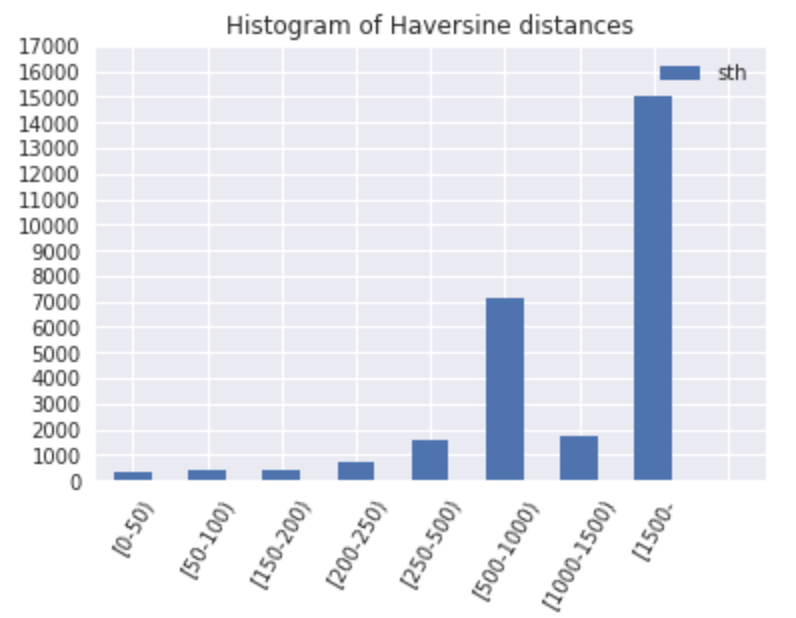
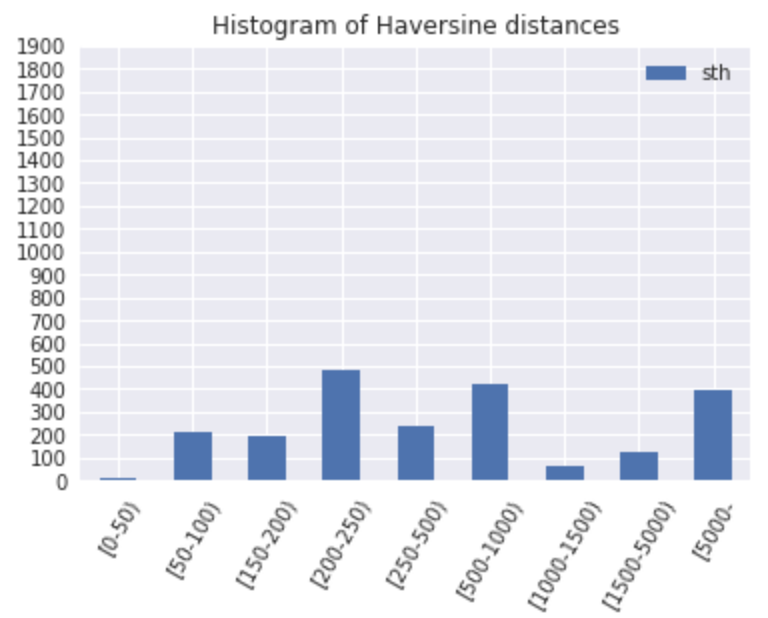
finishing the report

diff --git a/experiments.tex b/experiments.tex
@@ -11,7 +11,7 @@ Data set coming from previous steps are used as an input for the calculations in
 
 The analysis phase is executed with a following steps. For each date between 2018-03-12 and 2018-03-16 we do the following:
 \begin{enumerate}
-    \item Import input data to pySpark DataFrame from Parquet files
+    \item Import input data from Parquet files
     \item Calculate Euclidean distance measure on trajectories
     \item Calculate edit distance distance measure on trajectories
 \end{enumerate}
@@ -31,7 +31,7 @@ For the whole input data set we also do the following:
 \end{enumerate}
     
 \subsection{Results}
-Looking at the histogram of pairwise spatial distances between the trajectories in Figure\ref{fig:hist} we can say that the majority of the events were positioned with more than 1.5 kilometers uncertainty. Roughly the other half of events were localized with 500 to 1000 meters accuracy, which is still too large for reliable geo-positioning.
+Looking at the histogram of pairwise spatial distances between the trajectories in Figure\ref{fig:hist} we can say that there are three larger groups. There are slightly more events that were positioned between 200 and 250 meters accuracy, than events positioned with accuracy between 500 and 1000 meters. Almost the same number of events were however positioned with more than 5000 meters accuracy.
 
 We expect that the quality of positioning can be significantly improved by using more accurate and robust information about cell towers.
 
@@ -42,57 +42,26 @@ We expect that the quality of positioning can be significantly improved by using
     \label{fig:hist}
 \end{figure}
 
-
 This result can change depending on individual customer's mobile usage habits, network characteristics, cell map data source and the customer's geographical position.
 
-From the results in Table \ref{tab:distances}, we can conclude that the overall positioning needs a lot of improvement. The reason why both measures are this high is the fact that the square operation in Euclidean distance tends to penalize large distances. 
+As seen in Table \ref{tab:dist_stats}, there are only 2780 CDR observations, which were successfully positioned out of 37062 observations between 2018-03-12 and 2018-03-16. This 7.5\% positioning ratio is lower than expected and indicates that most of the cell IDs that were recorded by the application can not be found in the cellmap. This is likely to be because of the fact that the cellmap's quality is poor.
 
-From Table \ref{tab:dist_stats} we see the maximum distance is only around 1.65 kilometers, which does not seem to be extremely high, but this is only because the observations with higher distances are filtered out when joining the CDR and cellmap data sets. 
-The 1.4 meters minimum distance is very low, so it means that for some observations the positioning was very accurate. This would probably happen when the user was very close to the cell tower they connected to. The standard deviation of distances is 456.52 meters, which means that the distribution of distances is fat.
+We see the maximum distance is more than 8 kilometers, which seems to be quite high given we only had observations within the city of Berlin, where we did not expect distances larger than 2-3 kilometers because the cells are usually smaller in the urban area \cite{cell-site}. This can also support the argument that the quality of the cellmap is poor.
 
-CORRELATION; GRAPH of DISTANCE measures, also save as a notebook
-\begin{table}[h]
+The average distance is around 2 kilometers, with a very high (2 kilometers) standard deviation. Therefore we can say that the distances are very volatile, which can be because of the fact that the user moves around with the test phone and when it is closer to the cell site the distance is very low and as the user moves farther away the distance becomes larger.
+
+From Figure\ref{fig:traj}, we can conclude that the overall positioning needs a lot of improvement. 
+
+\begin{figure}[h]
     \centering
-    \begin{tabular}{|l|c|c|}
-        \hline
-        \textbf{Date} & \textbf{Euclidean distance} & \textbf{Edit distance}\\
-        \hline 
-        2018-03-01 & ??? & ?? \\
-        \hline 
-        2018-03-02 & ??? & ?? \\
-        \hline 
-        2018-03-03 & ??? & ?? \\
-        \hline 
-        2018-03-04 & ??? & ?? \\
-        \hline 
-        2018-03-05 & ??? & ?? \\
-        \hline 
-        2018-03-06 & ??? & ?? \\
-        \hline 
-        2018-03-07 & ??? & ?? \\
-        \hline 
-        2018-03-08 & ??? & ?? \\
-        \hline 
-        2018-03-09 & ??? & ?? \\
-        \hline 
-        2018-03-10 & ??? & ?? \\
-        \hline 
-        2018-03-11 & ??? & ?? \\
-        \hline 
-        2018-03-12 & ??? & ?? \\
-        \hline 
-        2018-03-13 & ??? & ?? \\
-        \hline 
-        2018-03-14 & ??? & ?? \\
-        \hline 
-        2018-03-15 & ??? & ?? \\
-        \hline 
-        2018-03-16 & ??? & ?? \\
-        \hline
-    \end{tabular}
-    \caption{Distance measures during the studied period}
-    \label{tab:distances}
-\end{table}
+    \includegraphics[width=0.5\textwidth]{images/traj.png}
+    \caption{Localized CDR observations with GPS ground truth.\textit{Legend}: magenta circle marker shows the CDR observations positioned with Opencellid Cellmap and heatmap represents GPS records}
+    \label{fig:traj}
+\end{figure}
+
+Euclidean distance tends to penalize large distances thus the high values seen in Table \ref{tab:distances}. The absolute values of the two types of distances cannot be compared, as their measure is different. The Euclidean distance grows with the number of events, but the edit distance does not. 
+
+The Euclidean distance is measured in meters, therefore it is simple to interpret and scales well with the number of observations. It is also very easy to implement with pySpark DataFrames. In contrast with this, the result of edit distance algorithm has not direct interpretation and its time complexity and the nature of the algorithm makes it significantly slower. Due to the fact that it is a dynamic programming problem, it is also not straightforward to implement as pySpark DataFrame operations.
 
 \begin{table}[h]
     \centering
@@ -100,19 +69,41 @@ CORRELATION; GRAPH of DISTANCE measures, also save as a notebook
         \hline
         \textbf{Statistic} & \textbf{Value} \\
         \hline 
-        count & $27398$ \\
+        count & $2780$ \\
         \hline
-        min(dist) &  $1.40$\\
+        min(dist) &  $49.57$\\
         \hline
-        max(dist) &   $1652.51$\\
+        max(dist) &   $8361.66$\\
         \hline
-        avg(dist) &  $839.04$\\
+        avg(dist) &  $2255.51$\\
         \hline
-        stddev(dist) &  $456.52$\\
+        stddev(dist) &  $2807.06$\\
         \hline
     \end{tabular}
-    \caption{Descriptive statistics of Haversine distances (in meters)}
+    \caption{Descriptive statistics of Haversine distances (in meters) for target period}
     \label{tab:dist_stats}
+\end{table}
+
+
+\begin{table}[h]
+    \centering
+    \begin{tabular}{|l|c|c|c|}
+        \hline
+        \textbf{date} & \textbf{euc\_dist} & \textbf{edit\_dist} & \textbf{count}\\
+        \hline
+        2018-03-12 & 35512.63 & 5001.99 & 274 \\
+        \hline
+        2018-03-13 & 96574.81 & 4217.92 & 800 \\
+        \hline
+        2018-03-14 & 87555.24 & 3594.97 & 472 \\
+        \hline
+        2018-03-15 & 100162.46 & 2766.2 & 538 \\
+        \hline
+        2018-03-16 & 88055.91 & 4863.57 & 696 \\
+        \hline
+    \end{tabular}
+    \caption{Distance measures for dates in the studied period}
+    \label{tab:distances}
 \end{table}
 
 When the user is located between several cell towers, the connection can be passed from one tower to another depending on network traffic fluctuations and other factors. This phenomenon is often referred to as cell tower ping-pong handover. It can however be used for improving positioning and identifying points-of-interest (POIs). As seen in Figure \ref{fig:ping-pong}, the phone connects to a cell tower and to another one and then back again to the previous one. Without knowing the actual GPS position we could better approximate the location of the customer using the ping-pong handover schema.

diff --git a/solution.tex b/solution.tex
@@ -8,7 +8,7 @@ We compare the ground truth GPS trajectories to trajectories of CDR events for t
     \label{fig:problem}
 \end{figure}
 
-To evaluate cellular network event based customer localization we calculate the Euclidean distance and the DTW distance along with several statistics of the pairwise distances between ground truth GPS trajectories and mobile network event trajectories. The Haversine distance is used to define the spatial distance between points. In the mobile network event trajectory, the location information is obtained from cell map data set.
+To evaluate cellular network event based customer localization we calculate the Euclidean distance and the edit distance along with several statistics of the pairwise distances between ground truth GPS trajectories and mobile network event trajectories. The Haversine distance is used to define the spatial distance between points. In the mobile network event trajectory, the location information is obtained from cell map data set.
 
 Similarly to the formulation in \cite{encyclopedia} and \cite{distance-def} we define distance measure on trajectories, such as:
 \begin{definition}
@@ -110,6 +110,7 @@ The edit distance formula is implemented as presented in Algorithm \ref{algo:edi
 \end{algorithmic}
 \end{algorithm}
 
+It is important to note that the edit distance is a dynamic programming algorithm and is relatively time consuming with a time complexity of $\mathcal{O}(mn)$ where $m$ and $n$ are the lengths of the respective trajectories.
 
 Given a set of distance observations with size $n$, we consider $\{d_{1}, d_{2}, ..., d_{n}\}$ as $n$ independent identically distributed (i.i.d) random variables, each corresponding to one randomly selected observation and having the distribution of the population. Then we can calculate the following descriptive statistics for the sample:
 \begin{itemize}

diff --git a/main.tex b/main.tex
@@ -33,7 +33,7 @@ Julia Hermann\\
 %Date
 \date{6 June 2018}
 \begin{abstract}
-In this paper we validate the usage of localized Call Detail Records data for customer positioning by comparing them to ground-truth data. The analysis shows that the majority of customers cannot be positioned given their CDR data with less than 1500 meters accuracy. This result depends on individual mobile usage habits, network characteristics and geographical position.
+In this paper we validate the usage of localized Call Detail Records data for customer positioning by comparing them to ground-truth data. The analysis demonstrates the quality of a simple approach towards positioning mobile network events. It also highlights important factors that have an impact on the localizations, such as individual mobile usage habits, network characteristics and geographical position.
 
 \end{abstract}
 \keywords{big data, Spark, geo-positioning, GPS, CDR}

diff --git a/conclusion.tex b/conclusion.tex
@@ -1,4 +1,4 @@
-To conclude we can say that we positioned the majority of customers using the localized CDR events generated by them with more than 1500 meters error.
+To conclude we can say that the positioning of events require more accurate cell map data and more sophisticated approach. In this experiment only 7.5 \% of the events were successfully localized and from those roughly the third has accuracy of 200-250 meters. 
 The positioning of a customer using the CDR events generated by them, heavily depends on the cell map that is used for obtaining the location of the cell tower assigned to the CDR event. 
 We found that OpenCelliD, the open-source cell map data has poor data quality for the Berlin region and is not recommended for accurate event positioning. 
 However using a more accurate cell map, such as an internal data source from a telephone provider would improve the localization.
